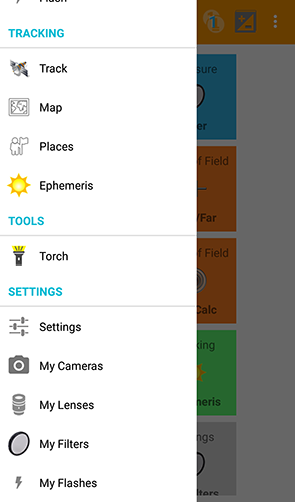
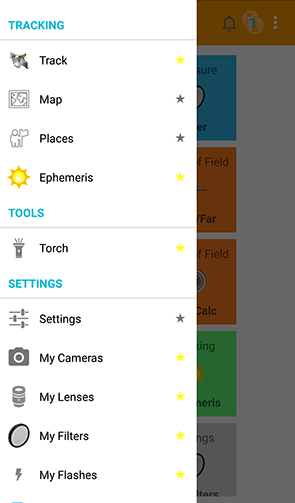
Photoxor C1  1.5.2  (62) Release New features

diff --git a/help/c1/en/help.htm b/help/c1/en/help.htm
@@ -20,6 +20,7 @@
     <ul>
       <li><a href="#L4323">Icon Arrangement</a></li>
       <li><a href="#L1920">Navigation Drawer</a></li>
+      <li><a href="#L496">Start Screen Configuration</a></li>
     </ul>
   </li>
   <li><a href="#L4883">Application Widget</a>
@@ -81,6 +82,7 @@
           <li><a href="#L3415">Ephemeris Calculations</a></li>
           <li><a href="#L3417">Twilight Data</a></li>
           <li><a href="#L1177">Auto Calculation</a></li>
+          <li><a href="#L1474">Ephemeris Twilight Alarms</a></li>
         </ul>
       </li>
       <li><a href="#L3018">Location Search</a></li>
@@ -91,6 +93,7 @@
       <li><a href="#L1471">Torch</a></li>
     </ul>
   </li>
+  <li><a href="#L1550">Notifications</a></li>
   <li><a href="#L21478">In-App Purchases</a>
     <ul>
       <li><a href="#L21490">No-Advertisement</a></li>
@@ -150,17 +153,22 @@
 
 <h2 id="L4277">Introduction</h2>
 
-<p>This document is for Photoxor C1 version 1.5.1 (57), which can be installed
-or updated for free from <a name="Google" id="Google"
-href="http://play.google.com/store/apps/details?id=com.photoxor.fotoapp">Google
-Play</a>.</p>
+<p>This document is for Photoxor C1 version 1.5.2 (62), which can be installed
+or updated for free from Google Play</p>
+
+<p><a
+href="https://play.google.com/store/apps/details?id=com.photoxor.fotoapp"><img
+alt="Get it on Google Play"
+src="https://developer.android.com/images/brand/en_generic_rgb_wo_45.png" />
+</a></p>
 
 <p>Photoxor C1 is a photography tool for <strong>exposure</strong>,
 <strong>depth of field</strong>, <strong>flash, filter</strong>,
 <strong>CoC</strong> calculations, <strong>GPS location tracking</strong>,
 ephemeris <strong>sun and moon calculations </strong>with
 <strong>compass</strong>. Visualize locations on a map, and quickly see what's
-closest to you.</p>
+closest to you. Create calendar alarms for twilight times, such as Blue or
+Golden Hours.</p>
 
 <p>Use the device camera based <strong>lightmeter</strong> to estimate an
 Exposure Value (EV) reading, determine camera settings and calculate
@@ -260,6 +268,18 @@ src="../images/Screenshot_NavDrawer_p_en.png" width="295" height="502" /></p>
 
 <p>Please note that the Torch function is shown only when supported by your
 device.</p>
+<a id="startScreenFavourites"></a> 
+
+<h3 id="L496">Start Screen Configuration</h3>
+
+<p>For each function the Navigation Drawer has a STAR icon, which allows to
+either place this function on the start screen or hide it. Now you ar able to
+configure you individual start screen.</p>
+
+<p>Don't want to show the start screen at all?</p>
+
+<p>Then on the Navigation Drawer just select exactly one function, and the
+corresponding screen replaces your start screen.</p>
 
 <h2 id="L4883">Application Widget</h2>
 
@@ -1092,6 +1112,42 @@ the battery level is low.</p>
 
 <p><img alt="Autocalc button" src="../images/Screenshot_Autocalc_en.png"
 width="295" height="213" /></p>
+<a id="EphemerisAlarms"></a> 
+
+<h4 id="L1474">Ephemeris Twilight Alarms</h4>
+
+<p>Press the<img alt="Alarm icon" src="../images/ic_alarm_add_grey600_24dp.png"
+width="48" height="48" /> icon, which opens a new screen to set ephemeris
+twilight alarms in your calendar. This screen allows you to change location and
+date as needed.</p>
+
+<p><img alt="Ephemeris Alarm"
+src="../images/Screenshot_ephemeris_alarm_0_selected_p_en.png" width="295"
+height="524" /></p>
+
+<p></p>
+
+<p>Then please select the events you would like to create an alarm for. </p>
+
+<p></p>
+
+<p><img alt="Ephemeris Alarm, 2 selected"
+src="../images/Screenshot_ephemeris_alarm_2_selected_p_en.png" width="295"
+height="524" /></p>
+
+<p>Press 'ADD xx ALARMS'. In case you have installed multiple calendar
+applications, next select the application to be used, and then for each
+selected twilight situation a new calendar event is created and
+prepopulated.</p>
+
+<p>Please note that for some calendar applications only part of the information
+will be populated; this is unfortunately out of our control. Also for each
+ticked alarm a separate event screen will be opened.</p>
+
+<p></p>
+
+<p>After definition of alarms for one date you might choose another date and
+create further alarm entries.</p>
 
 <h3 id="L3018">Location Search</h3>
 
@@ -1153,6 +1209,50 @@ screen, and allows you for example to change the switch-off time.</p>
 
 <p><img alt="torch screen" src="../images/Screenshot_Torch_p_en.png"
 width="295" height="503" /></p>
+<a id="notifications"></a> 
+
+<h2 id="L1550">Notifications</h2>
+
+<p>You may receive notifications from time to time on new application features,
+tips &amp; tricks, and interesting articles. The notification icon changes
+from<img alt="Notification icon"
+src="../images/ic_notifications_none_grey600_24dp.png" width="48" height="48"
+/> to<img alt="New Notifications icon"
+src="../images/ic_notifications_grey600_24dp.png" width="48" height="48" /> as
+an alert that new messages are available.</p>
+
+<p>Notifications are organised in three groups:</p>
+<dl>
+  <dt>CURRENT</dt>
+    <dd>All the newly received notifications, followed by already read
+    ones.</dd>
+  <dt>ARCHIVED</dt>
+    <dd>Keep for future reference.</dd>
+  <dt>DELETED</dt>
+    <dd>Marked for deletion. They will be removed within about 5 days.</dd>
+</dl>
+The following icons are used: 
+<dl>
+  <dt>READ</dt>
+    <dd>Press READ or just click on the notification text to follow an embedded
+      link to further information (if available).</dd>
+</dl>
+<dl>
+  <dt><img alt="Archive icon" src="../images/ic_archive_grey600_24dp.png"
+  width="48" height="48" /></dt>
+    <dd>Archive the notification.</dd>
+  <dt><img alt="Delete icon" src="../images/ic_clear_grey600_24dp.png"
+  width="48" height="48" /></dt>
+    <dd>Delete the notification.</dd>
+  <dt><img alt="Undo icon" src="../images/ic_undo_grey600_24dp.png" width="48"
+  height="48" /></dt>
+    <dd>Undo the deletion of the notification. The notification will be moved
+      to the CURRENT group.</dd>
+</dl>
+
+<p><img alt="Notifications current"
+src="../images/Screenshot_Notifications_ current_p_en.png" width="295"
+height="524" /></p>
 
 <h2 id="L21478">In-App Purchases</h2>
 
